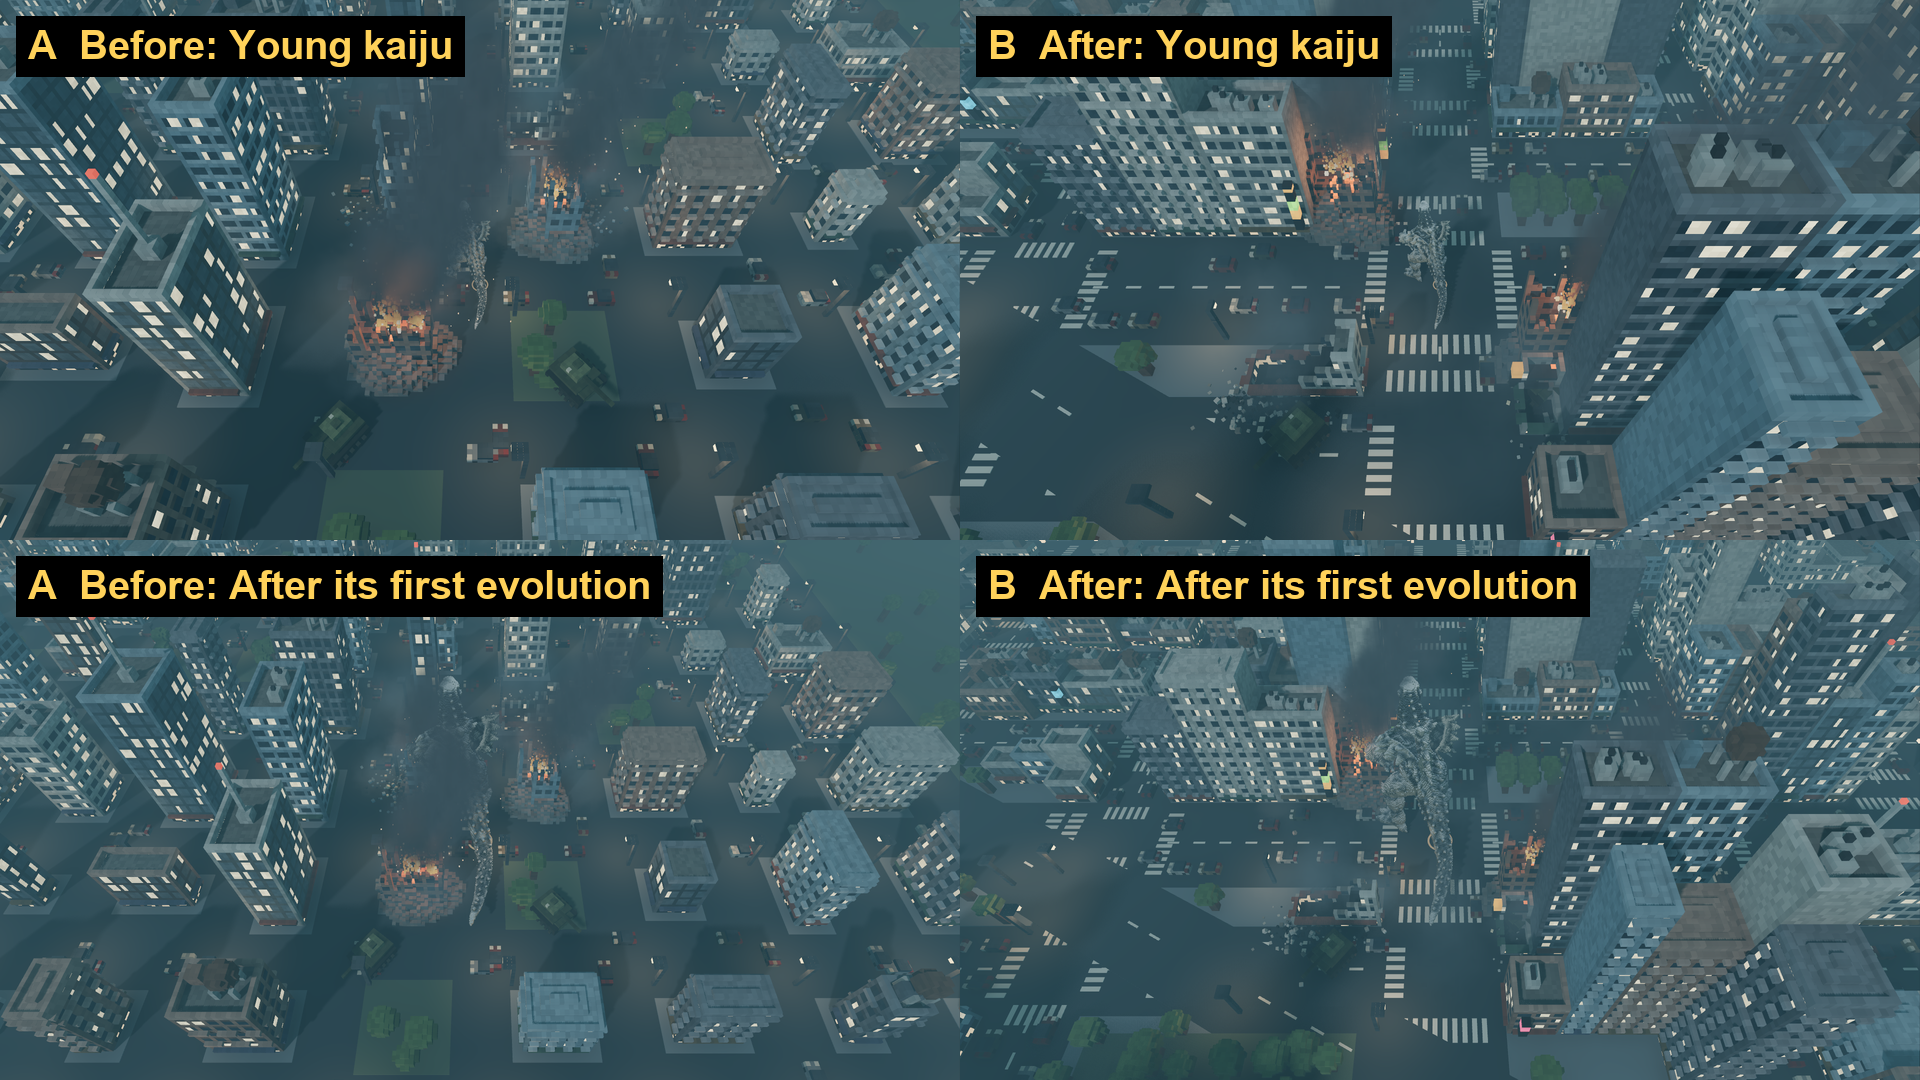
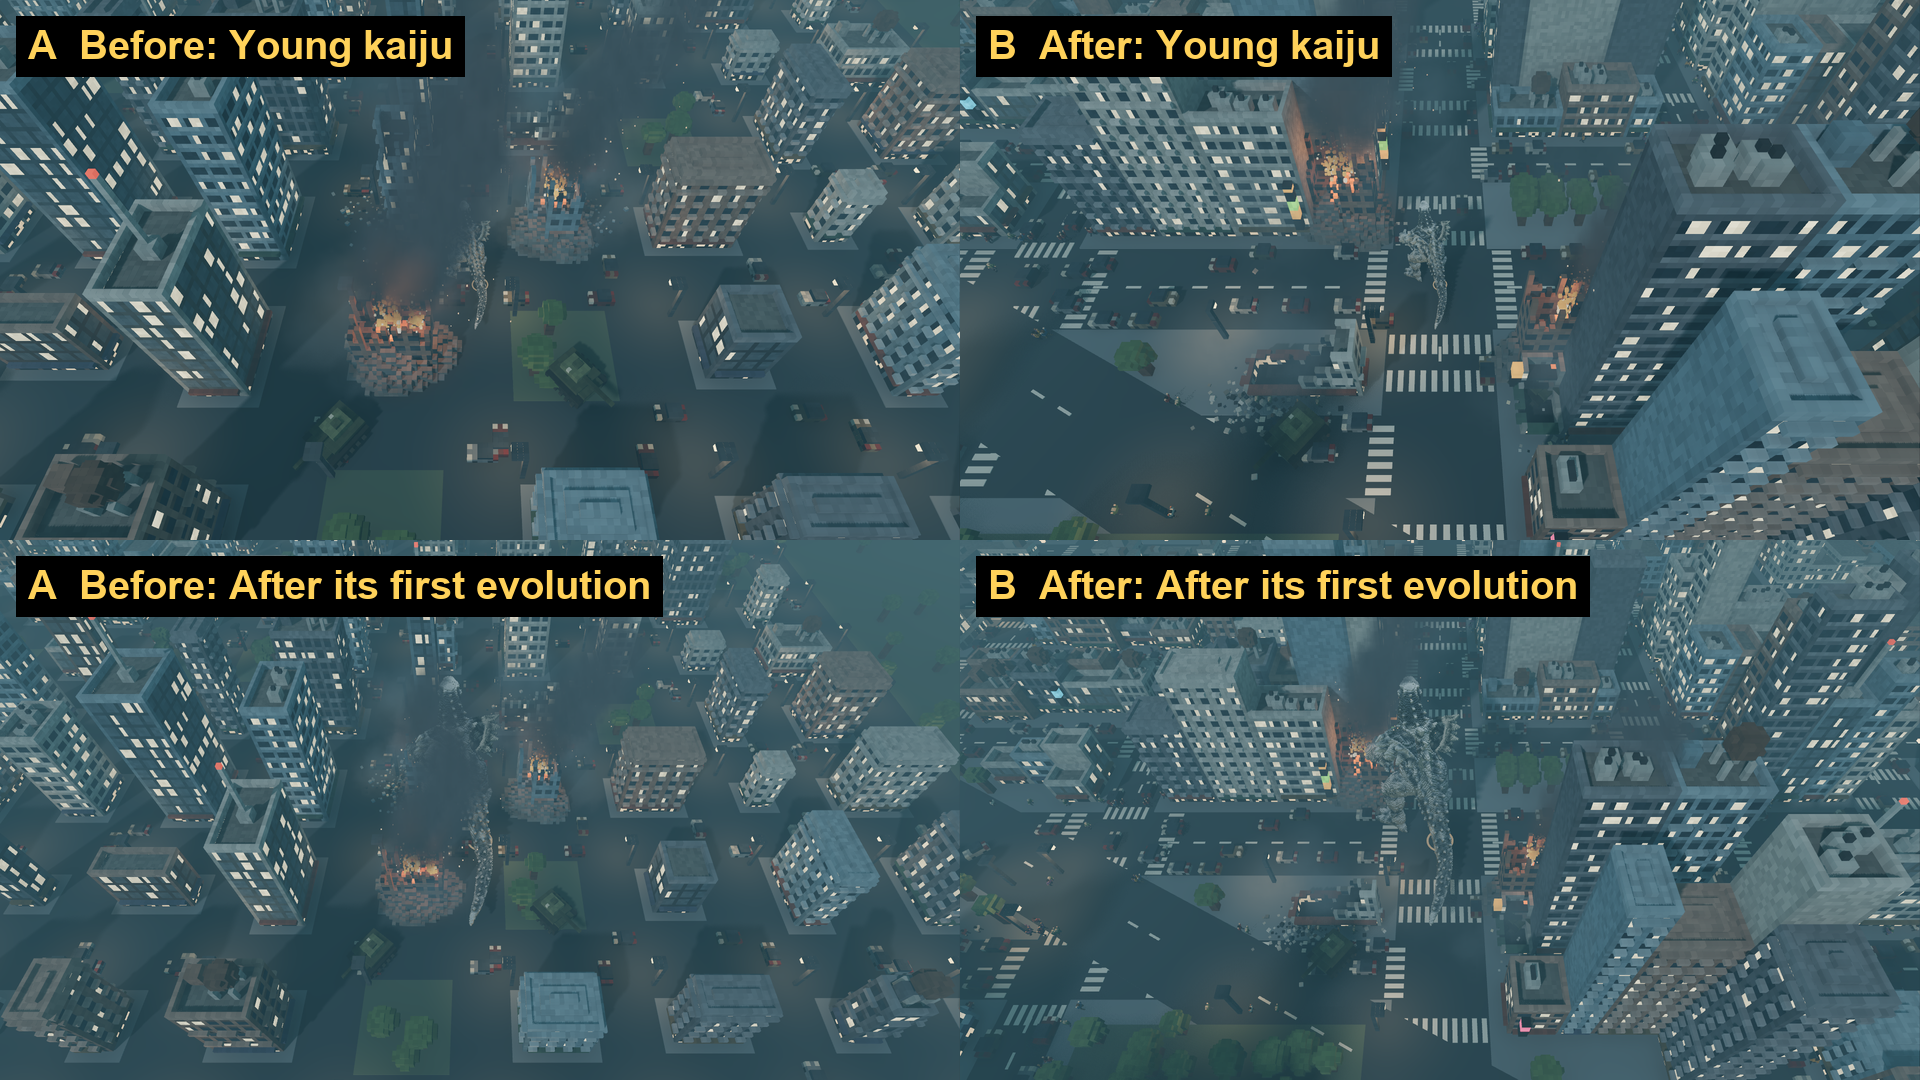
City handoff; final before/after and edge boards

diff --git a/agent-handoffs/city.md b/agent-handoffs/city.md
@@ -1,0 +1,68 @@
+# City handoff, 2026-10-16 21:05
+## State: awaiting lead (captures sent for review; PR open into claude/look-options)
+
+## Task
+Director 2026-10-16: "our city exists in a void ... far too gridlike, it must look like an
+actual city not a grid of isolated buildings"; then "use tokyo and new york as inspiration".
+Scope: city layout (sim) + city edges/background + evidence. Not in scope: D-028 building
+fidelity (RES 8-12) and D-029 real OSM districts (another helper) - see Open decisions.
+
+## Branch and commit
+claude/city-layout-56adda (worktree .claude/worktrees/city-layout-56adda), merged with
+origin/claude/look-options at 829bc53 (street life #5 included). PR into claude/look-options.
+
+## What exists now
+- sim/city_gen.gd: CityGen.map(cfg) street plan from the config alone (map_seed): long
+  Manhattan blocks (block_long x, block_short z), ring avenue at +-half, avenues, alleys, one
+  diagonal (Broadway). Returns nodes, streets {from,to,width,kind}, blocks {rect,use}, xs, zs.
+  generate(rng, cfg) = buildings of the "built" blocks. half_extent = cfg.half.
+- sim/city_lots.gd: lots along block faces with shared party walls, courtyards, two tower
+  cores (cfg.cores), front yards in low-rise, pencil buildings, diagonal leftovers = plazas.
+- RampageSim: arena_half = half + arena_margin; kaiju spawns at (0, half) on the ring avenue.
+- scenes/city_ground.gd (blocks+sidewalks, park, plaza, parking, diagonal, lane lines, zebras,
+  quay, bay), city_skyline.gd (outer blocks as facade-shaded boxes, roof clutter, waterfront
+  expressway, far skyline + lattice tower + beacons, aircraft lights, outer lamp heads),
+  facade.gdshaderinc + facade.gdshader (engine fog) + facade_far.gdshader (own haze).
+- BuildingView: floor slabs in a second MultiMesh shown only once a building is broken (GPU
+  saving); party_walls() -> blank side walls; BuildingVoxels: vertical neon signs.
+- CityDecor rebuilt on the plan. PropField.crush uses 8-unit buckets. Topple rubble strips
+  build on WorkerThreadPool.
+- Street life ported: Traffic on the graph (one-way side streets by line index parity,
+  two-way avenues/diagonal), Police picks crossings()/street_dirs(), StreetLife walks block
+  pavements and crosses to the block opposite.
+- tests/run_city_tests.gd (city suite, floor 5); ALL_SUITES + ci_shards updated.
+- tools/capture/capture_looks.gd: + edge and skyline shots; city_stats.gd prints layout numbers.
+
+## Evidence so far
+Tests: smoke 11, sim 39, city 5, flow 14 + harness self-test green; gdlint/gdformat clean.
+Capture perf (engine timers, 1080p): young 5.8 ms, evolved 5.5, edge 4.5, skyline 4.2
+(before: 5.3 / 5.5). Bench 30 s interleaved with base (another helper's GPU captures running
+at the same time): GPU avg base 6.6-8.1 vs city 7.1; frames over 33 ms base 0, city 1 per run
+(34.7 / 36.0 ms). Boards: docs/captures/2026-10-16-city/. Full-size shots in the shared notes
+folder city-captures/.
+
+## Attempts
+- Facade stand-ins rendered black: source_color uniforms are already linear (no second
+  srgb_to_linear) and fog_disabled + own fog only for the far shader.
+- Flow suite took 535 s in a fresh worktree: LFS fonts were pointers (FreeType error spam
+  per frame). `git lfs pull` then reimport: 14 s.
+
+## Open decisions
+- D-028 (building RES 8-12) is assigned to "city-layout" in the lead handoff but no brief
+  reached this session; start only on the lead's word.
+- D-029 real OSM districts: if a baked district returns the same CityGen.map() shape,
+  ground, traffic, people and police run on it unchanged.
+
+## Running jobs
+None. No override.cfg left. Temp worktrees removed.
+
+## Findings for the lead
+- Splitting hidden floor slabs into a lazily shown MultiMesh cut GPU from 7.3 to 5.6 ms on the
+  denser city (capture perf line, same stage).
+- A merged project.godot fullscreen line blocks every windowed capture (focus guard); already
+  fixed upstream in 8cf4a16.
+
+## Rules learnt the hard way
+- New worktree: `git lfs pull` before any Godot run, or fonts error every frame.
+- Python str.replace replaces every match: assert the count when patching code.
+- Godot class cache: run --import after adding a class_name file before --script runs.
